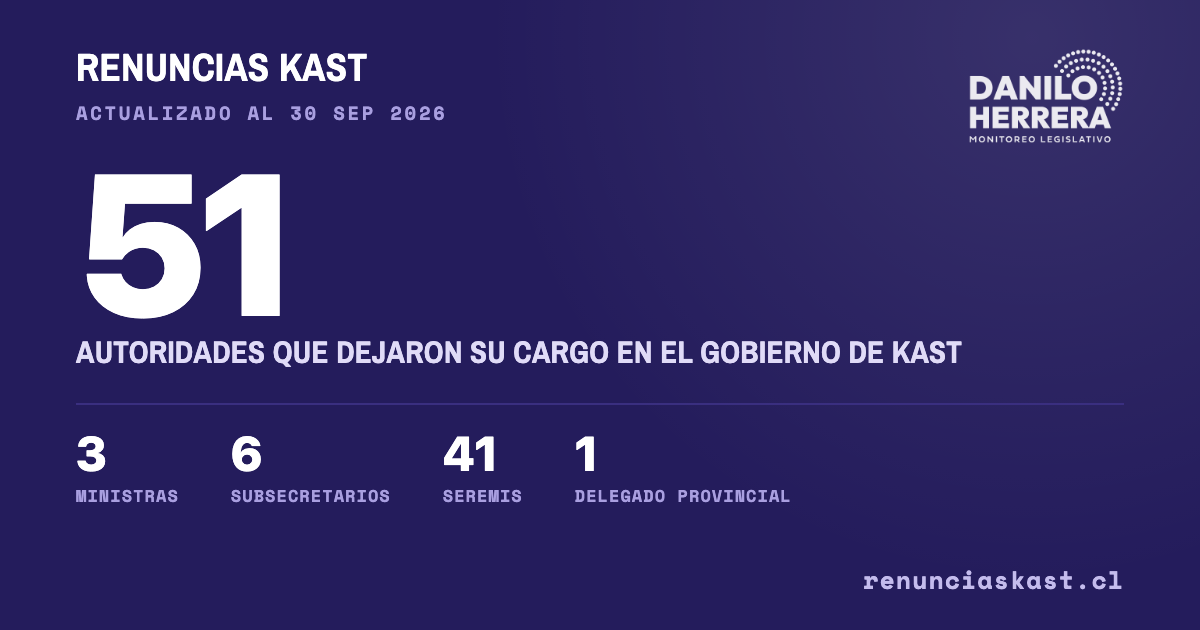
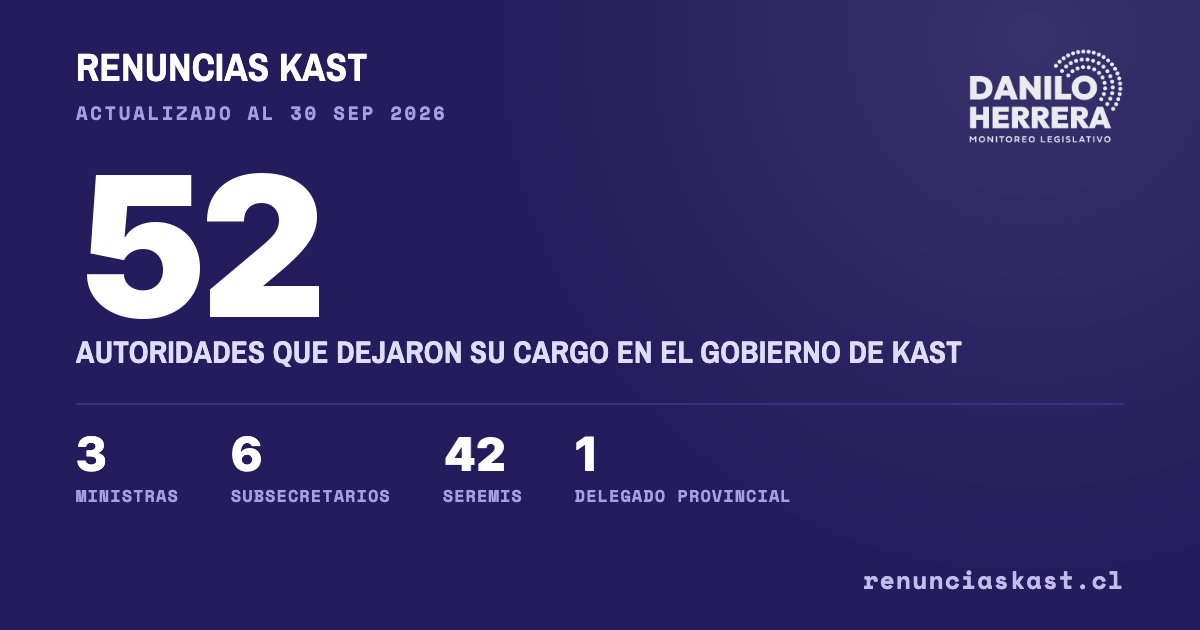
Agrega renuncia confirmada de seremi de Economía de O'Higgins (Juan Carlos Meléndez)
Claude-Session: https://claude.ai/code/session_01R5GLQY7os54EutPQV7rass

diff --git a/index.html b/index.html
@@ -204,12 +204,12 @@
   <div class="wrap">
     <div class="tracker">
       <div class="meta">Actualizado al 30 de septiembre de 2026</div>
-      <div class="big">51</div>
+      <div class="big">52</div>
       <div class="cap">autoridades que dejaron su cargo<br class="mbr"> en el gobierno de José Antonio Kast</div>
       <div class="strip">
         <div><div class="sn">3</div><div class="sl">ministras</div></div>
         <div><div class="sn">6</div><div class="sl">subsecretarios</div></div>
-        <div><div class="sn">41</div><div class="sl">seremis</div></div>
+        <div><div class="sn">42</div><div class="sl">seremis</div></div>
         <div><div class="sn">1</div><div class="sl">delegado provincial</div></div>
         <div><div class="sn" id="avgDias">—</div><div class="sl"><span class="nowrap">días de gobierno</span><br class="mbr"> por salida</div></div>
       </div>
@@ -358,6 +358,7 @@ const D = [
   {n:"Juan Pablo Rodríguez", tipo:"Subsecretario", sexo:"m", terr:"Nacional", min:"Hacienda", fecha:"23 jul", sk:723, jud:false, motivo:"Test de drogas", razon:"Removido tras dar positivo en test de drogas. Niega consumir y presentó un contraexamen negativo de la U. Católica", medio:"La Tercera", url:"https://www.latercera.com/politica/noticia/no-refleja-mi-realidad-exsubsecretario-de-hacienda-afirma-que-no-consume-drogas-y-atribuye-a-un-error-el-test-positivo-que-motivo-su-salida/"},
   {n:"Eduardo Leiva", tipo:"Seremi", terr:"Los Lagos", min:"Culturas", fecha:"22 jul", sk:722, jud:false, motivo:"Test de drogas", razon:"Renunció tras dar positivo en un examen de drogas. Niega consumir y presentó un contraexamen negativo de la U. de Chile", medio:"T13", url:"https://www.t13.cl/noticia/politica/exseremi-culturas-lagos-renuncio-tras-dar-positivo-examen-drogas-3-8-2026"},
   {n:"Marcelo Vergara", tipo:"Seremi", terr:"Arica y Parinacota", min:"Hacienda", fecha:"17 jul", sk:717, jud:false, motivo:"Test de drogas", razon:"Renuncia voluntaria, en medio de dudas por su test de drogas. Hacienda confirmó que dio positivo, pero se negó a entregar el informe completo", medio:"El Mostrador", url:"https://www.elmostrador.cl/aqui-arica/2026/09/01/hacienda-confirma-test-positivo-de-drogas-a-exseremi-republicano-pero-no-entrega-resultados/"},
+  {n:"Juan Carlos Meléndez", tipo:"Seremi", terr:"O'Higgins", min:"Economía", fecha:"30 sep", sk:930, jud:false, sexo:"m", motivo:"Cuestionamiento de gestión", razon:"Renuncia confirmada por el Ministerio de Economía tras una evaluación negativa de su gestión, en medio de las altas cifras de desempleo de la región. El 21 de septiembre la delegada presidencial había desmentido su salida", medio:"El Rancagüino", url:"https://www.elrancaguino.cl/2026/09/30/seremi-de-economia-en-ohiggins-renuncia-al-cargo/"},
   {n:"Kattia Durán", tipo:"Seremi", terr:"Metropolitana", min:"Desarrollo Social", fecha:"30 sep", sk:930, jud:false, sexo:"f", motivo:"No informadas", razon:"Renuncia voluntaria por razones de carácter familiar", medio:"ADN Radio", url:"https://www.adnradio.cl/2026/09/30/doble-salida-en-el-gobierno-dos-seremis-de-la-region-metropolitana-renuncian-en-menos-de-24-horas/"},
   {n:"Sebastián Norambuena", tipo:"Seremi", terr:"Metropolitana", min:"Vivienda", fecha:"30 sep", sk:930, jud:false, sexo:"m", motivo:"Cuestionamiento de gestión", razon:"Renuncia pedida por el ministro Poduje tras pérdida de confianza y no cumplir las metas a la velocidad requerida; el Minvu la calificó de voluntaria", medio:"Radio Biobío", url:"https://www.biobiochile.cl/noticias/nacional/region-metropolitana/2026/09/30/por-perdida-de-confianza-poduje-solicita-renuncia-al-seremi-de-vivienda-en-la-rm.shtml"},
   {n:"Fabián Páez", tipo:"Seremi", terr:"Coquimbo", min:"Energía", fecha:"17 sep", sk:917, jud:false, sexo:"m", motivo:"No acreditó requisitos", razon:"Renuncia pedida por no cumplir con los requisitos académicos exigidos para el cargo", medio:"Mi Radio", url:"https://www.miradiols.cl/2026/09/16/nueva-baja-en-el-gobierno-seremi-de-energia-renuncia-a-su-cargo/"},
